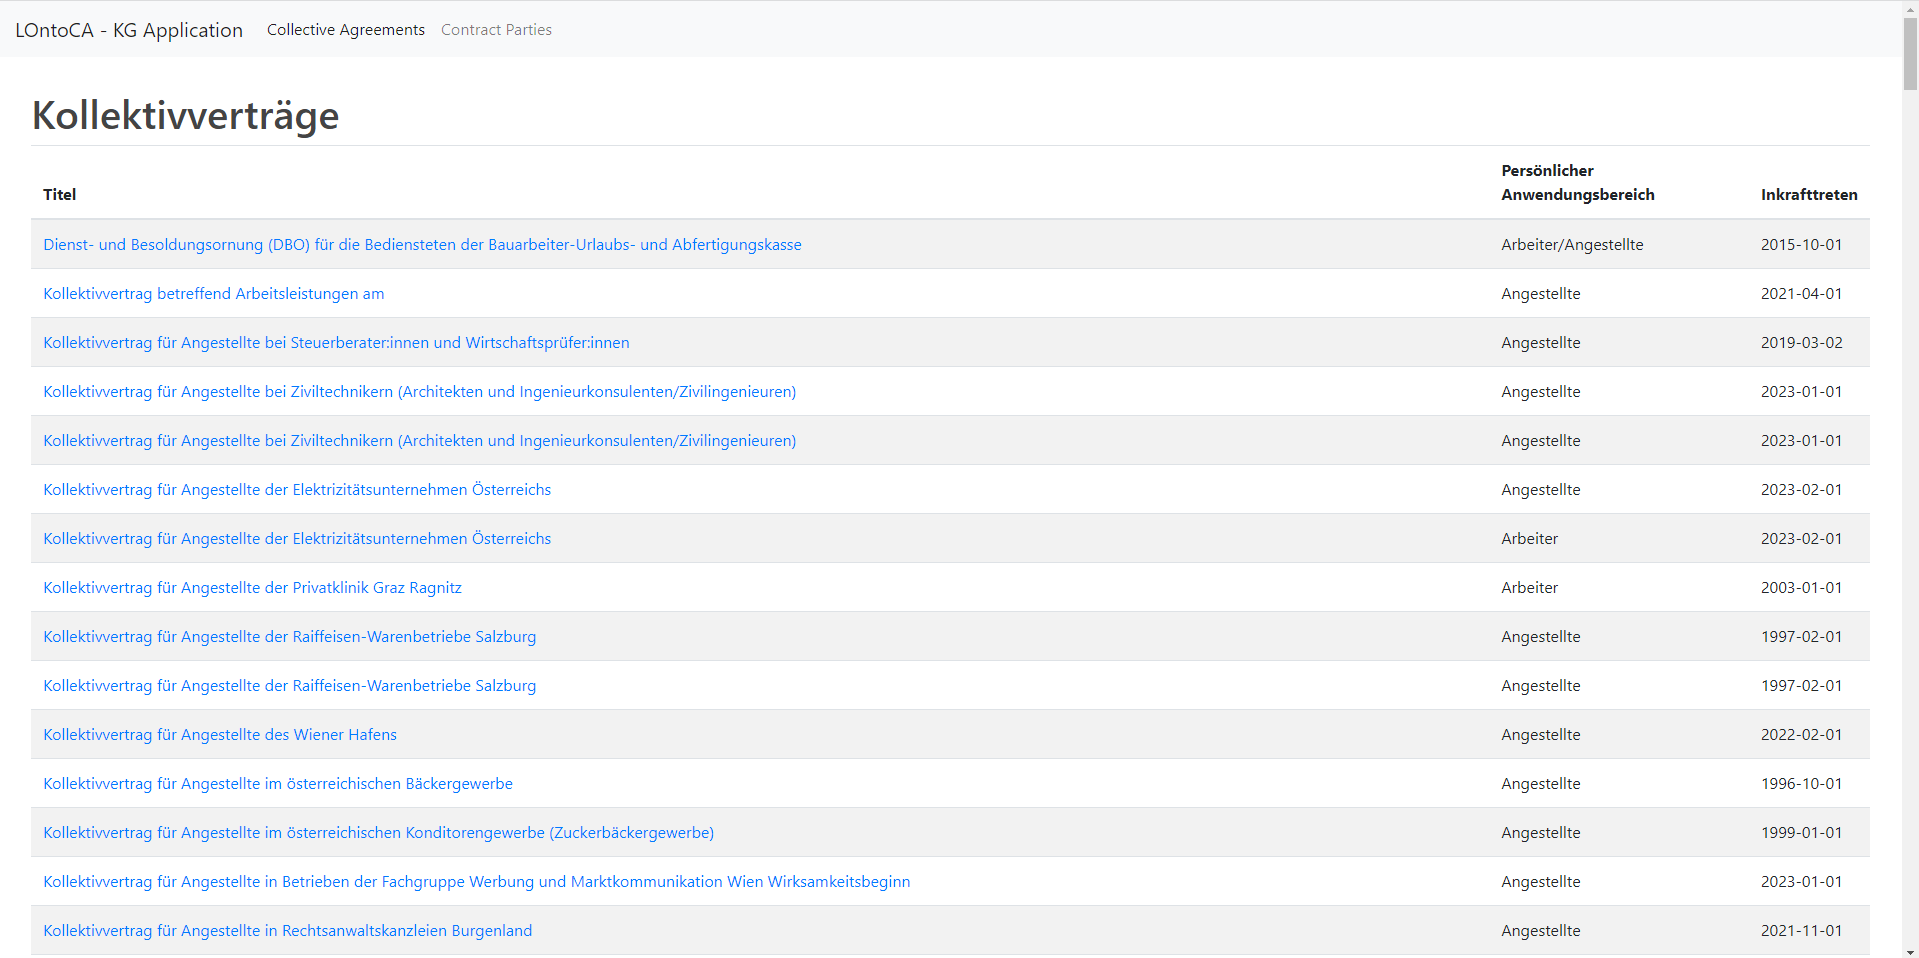
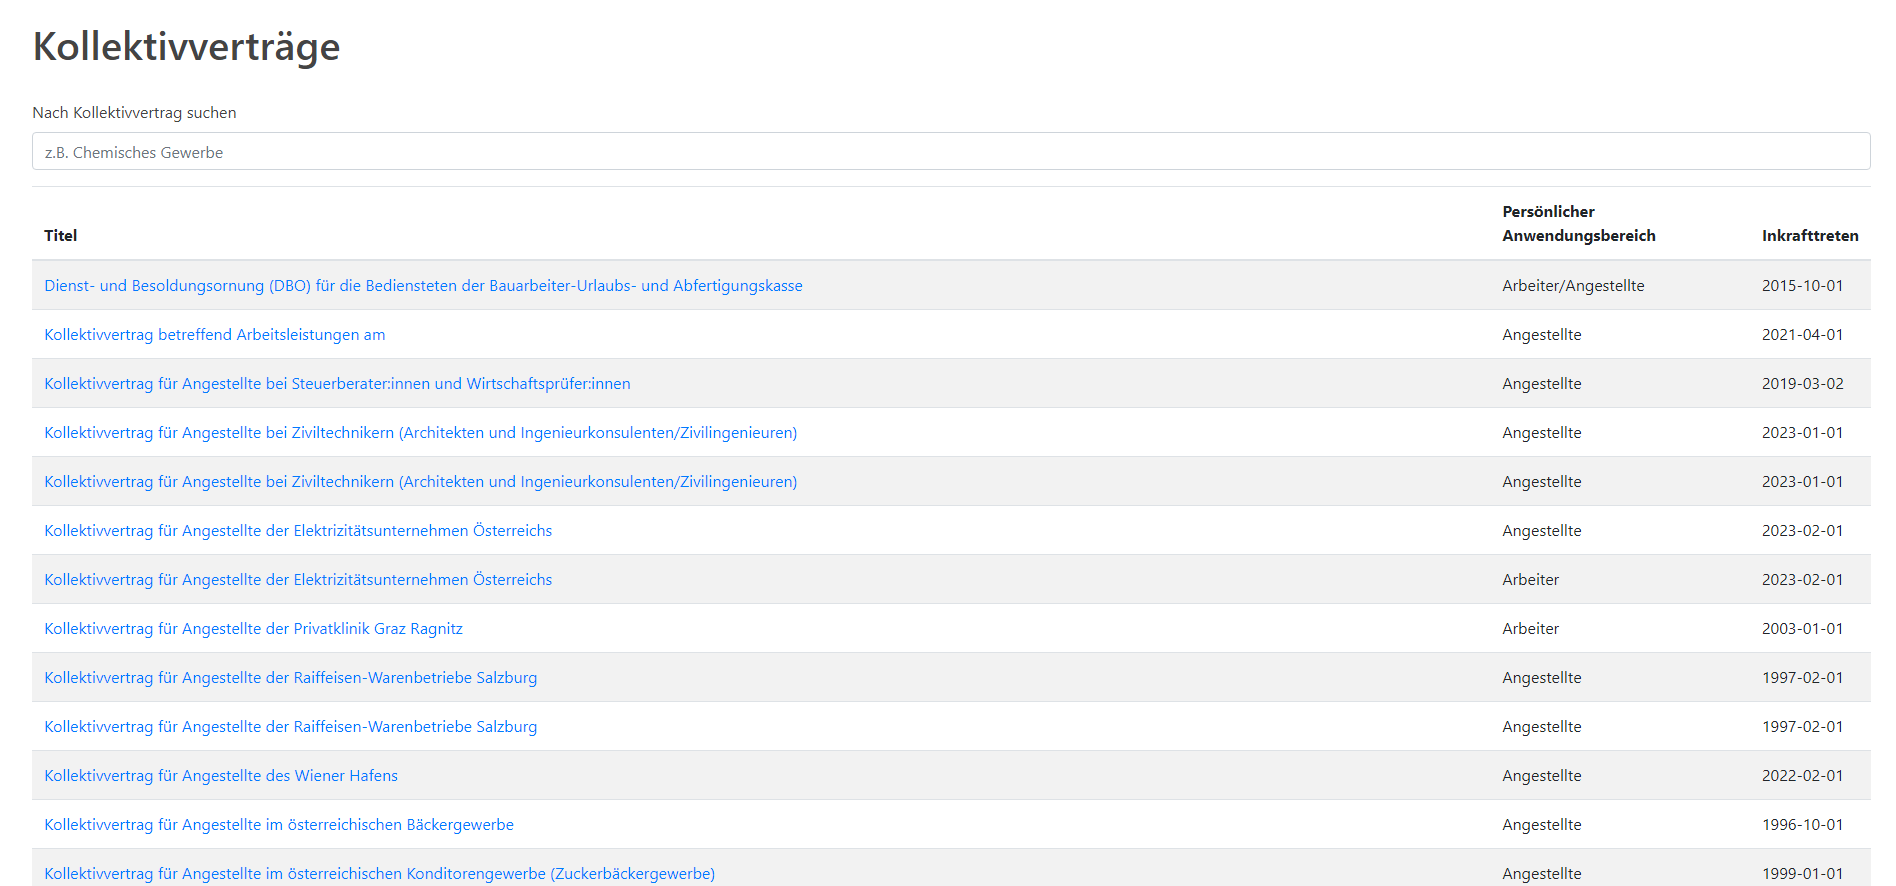
search functionality added

diff --git a/application/app/templates/parties.html b/application/app/templates/parties.html
@@ -5,6 +5,15 @@
 
     <h1>Kollektivvertragsparteien</h1>
 
+    <br>
+
+    <form id="form">
+        <div class="form-group">
+            <label for="searchString">Nach Kollektivvertragsparteien suchen</label>
+            <input type="text" class="form-control" id="searchString" name="searchString" placeholder="z.B. Gemeinde Wien">
+        </div>
+    </form>
+
     <table id="data" class="table table-striped">
         <thead>
         <tr>
@@ -12,7 +21,7 @@
             <th>Vertragsseite</th>
         </tr>
         </thead>
-        <tbody>
+        <tbody id="tbody">
         {% for party in parties %}
         <tr>
             <td><a href="/parties/{{party['p_iri']}}">{{ party['p_name'] }}</a></td>
@@ -23,5 +32,33 @@
     </table>
 
 </div>
+
+<script>
+/* event listener */
+input_element = document.getElementById("searchString")
+form_element = document.getElementById("form")
+input_element.addEventListener('input', function(event) {
+       event.preventDefault();
+       const formData = new FormData(form_element);
+       fetch('/', {
+            method: 'POST',
+            body: formData
+       }).then(function(response) {
+            response.json().then(function(value) {
+                replaceTBody(value);
+            });
+       });
+});
+
+tbody = document.getElementById("tbody")
+function replaceTBody(value) {
+    console.log(value);
+    new_table_content = '';
+    for (const [key, v] of Object.entries(value)) {
+        new_table_content += '<tr><td><a href="/contracts/' + v['c'] + '">' + v['n'] + '</a></td><td>' + v['d'] + '</td></tr>'
+    }
+    tbody.innerHTML = new_table_content
+}
+</script>
 
 {% endblock %}

diff --git a/application/app/templates/contracts.html b/application/app/templates/contracts.html
@@ -5,6 +5,15 @@
 
     <h1>Kollektivverträge</h1>
 
+    <br>
+
+    <form id="form">
+        <div class="form-group">
+            <label for="searchString">Nach Kollektivvertrag suchen</label>
+            <input type="text" class="form-control" id="searchString" name="searchString" placeholder="z.B. Chemisches Gewerbe">
+        </div>
+    </form>
+
     <table id="data" class="table table-striped">
         <thead>
         <tr>
@@ -13,7 +22,7 @@
             <th>Inkrafttreten</th>
         </tr>
         </thead>
-        <tbody>
+        <tbody id="tbody">
         {% for contract in contracts %}
         <tr>
             <td><a href="/contracts/{{contract['c']}}">{{ contract['n'] }}</a></td>
@@ -26,4 +35,32 @@
 
 </div>
 
+<script>
+/* event listener */
+input_element = document.getElementById("searchString")
+form_element = document.getElementById("form")
+input_element.addEventListener('input', function(event) {
+       event.preventDefault();
+       const formData = new FormData(form_element);
+       fetch('/', {
+            method: 'POST',
+            body: formData
+       }).then(function(response) {
+            response.json().then(function(value) {
+                replaceTBody(value);
+            });
+       });
+});
+
+tbody = document.getElementById("tbody")
+function replaceTBody(value) {
+    new_table_content = '';
+    for (const [key, v] of Object.entries(value)) {
+        new_table_content += '<tr><td><a href="/contracts/' + v['c'] + '">' + v['n'] + '</a></td><td>' + v['scope'] + '</td><td>' + v['d'] + '</td></tr>'
+    }
+    tbody.innerHTML = new_table_content
+}
+</script>
+
 {% endblock %}
+

diff --git a/application/app/static/queries/queries.py b/application/app/static/queries/queries.py
@@ -1,17 +1,27 @@
-def GET_CONTRACTS_WITH_TITLE():
-    return'''
+def GET_CONTRACTS_WITH_TITLE(substring: str):
+    return f'''
     PREFIX : <https://semantics.id/ns/>
     PREFIX re: <https://semantics.id/ns/resource/>
     
-    SELECT DISTINCT ?c ?n (GROUP_CONCAT(?t) AS ?scope) ?d 
-    WHERE {
-        ?c a :CollectiveAgreement . 
-        ?c :title ?n . 
-        ?c :personalScopeOfApplication ?t . 
-        ?c :dateOfComingIntoEffect ?d
-    } 
-    GROUP BY ?c ?n ?d 
-    ORDER BY ?n
+    SELECT * WHERE {{
+      {{   SELECT DISTINCT ?c ?n (GROUP_CONCAT(?t) AS ?scope) ?d 
+    WHERE {{
+      ?c a :CollectiveAgreement . 
+      ?c :title ?n . 
+      ?c :personalScopeOfApplication ?t . 
+      ?c :dateOfComingIntoEffect ?d
+      FILTER REGEX(lcase(str(?c)), "{substring}")
+    }} GROUP BY ?c ?n ?d ORDER BY ?n }}
+      UNION
+      {{   SELECT DISTINCT ?c ?n (GROUP_CONCAT(?t) AS ?scope) ?d 
+    WHERE {{
+      ?c a :CollectiveAgreement . 
+      ?c :title ?n . 
+      ?c :personalScopeOfApplication ?t . 
+      ?c :dateOfComingIntoEffect ?d
+      FILTER REGEX(lcase(str(?n)), "{substring}")
+    }} GROUP BY ?c ?n ?d ORDER BY ?n }}
+    }} GROUP BY ?c ?n ?d ?scope ORDER BY ?n
     '''
 
 
@@ -148,18 +158,31 @@ def FIND_CLAUSE(substring: str):
     }}
     '''
 
-def GET_CONTRACT_PARTIES():
+def GET_CONTRACT_PARTIES(substring: str):
     return f'''
+    
     PREFIX : <https://semantics.id/ns/> 
     PREFIX re: <https://semantics.id/ns/resource/>
-        
-    SELECT ?p_iri ?p_name ?side WHERE {{
-        ?p_iri a :ContractParty .
-      ?p_iri :partyName ?p_name .
-      BIND (if ( EXISTS {{ ?c1 a :CollectiveAgreement . ?c1 :hasContractPartyRepresentingEmployees ?p_iri }}, 
-          if ( EXISTS {{ ?c2 a :CollectiveAgreement . ?c2 :hasContractPartyRepresentingEmployers ?p_iri }}, 'Arbeitnehmer / Arbeitgeber' , 'Arbeitnehmer' ), 
-          if ( EXISTS {{ ?c3 a :CollectiveAgreement . ?c3 :hasContractPartyRepresentingEmployers ?p_iri }}, 'Arbeitgeber' , 'Unbekannt' )) AS ?side)
-      }}
+    
+    SELECT * WHERE {{
+    {{ SELECT ?p_iri ?p_name ?side WHERE {{
+    ?p_iri a :ContractParty .
+    ?p_iri :partyName ?p_name .
+    BIND (if ( EXISTS {{ ?c1 a :CollectiveAgreement . ?c1 :hasContractPartyRepresentingEmployees ?p_iri }},
+    if ( EXISTS {{ ?c2 a :CollectiveAgreement . ?c2 :hasContractPartyRepresentingEmployers ?p_iri }}, 'Arbeitnehmer / Arbeitgeber' , 'Arbeitnehmer' ),
+    if ( EXISTS {{ ?c3 a :CollectiveAgreement . ?c3 :hasContractPartyRepresentingEmployers ?p_iri }}, 'Arbeitgeber' , 'Unbekannt' )) AS ?side) .
+    FILTER REGEX(lcase(str(?p_name)), "{substring}")
+    }} }}
+    UNION
+    {{ SELECT ?p_iri ?p_name ?side WHERE {{
+    ?p_iri a :ContractParty .
+    ?p_iri :partyName ?p_name .
+    BIND (if ( EXISTS {{ ?c1 a :CollectiveAgreement . ?c1 :hasContractPartyRepresentingEmployees ?p_iri }},
+    if ( EXISTS {{ ?c2 a :CollectiveAgreement . ?c2 :hasContractPartyRepresentingEmployers ?p_iri }}, 'Arbeitnehmer / Arbeitgeber' , 'Arbeitnehmer' ),
+    if ( EXISTS {{ ?c3 a :CollectiveAgreement . ?c3 :hasContractPartyRepresentingEmployers ?p_iri }}, 'Arbeitgeber' , 'Unbekannt' )) AS ?side) .
+    FILTER REGEX(lcase(str(?p_iri)), "{substring}")
+    }} }}
+    }}
     '''
 
 def GET_SIGNED_CONTRACTS(substring: str):

diff --git a/application/app/routes.py b/application/app/routes.py
@@ -1,11 +1,21 @@
-from flask import render_template
+from flask import render_template, request
 from application.app import app
 from application.app.service.service import AppService
+import json
 
 
-@app.route('/')
-@app.route('/contracts')
+@app.route('/', methods=['GET', 'POST'])
+@app.route('/contracts', methods=['GET', 'POST'])
 def contracts():
+    if request.method == 'POST':
+        search_string = request.form['searchString']
+        search_results = AppService.get_contracts(search_string)
+
+        return app.response_class(
+            response=json.dumps(search_results),
+            status=200,
+            mimetype='application/json'
+        )
     return render_template('contracts.html', title='Contracts', contracts=AppService.get_contracts())
 
 
@@ -14,8 +24,17 @@ def single_contract(contract):
     return render_template('contract-detail.html', title='Detailansicht', contract_info=AppService.get_contract_info(contract=contract), zip=zip)
 
 
-@app.route('/parties')
+@app.route('/parties', methods=['GET', 'POST'])
 def parties():
+    if request.method == 'POST':
+        search_string = request.form['searchString']
+        search_results = AppService.get_parties(search_string)
+
+        return app.response_class(
+            response=json.dumps(search_results),
+            status=200,
+            mimetype='application/json'
+        )
     return render_template('parties.html', title='Parties', parties=AppService.get_parties())
 
 

diff --git a/application/app/service/service.py b/application/app/service/service.py
@@ -63,9 +63,9 @@ class RequestService:
 class AppService:
 
     @staticmethod
-    def get_contracts():
+    def get_contracts(substring: str = ''):
         return ResponseService.get_row_attributes(
-            result_rows=RequestService.get_query_results(query=queries.GET_CONTRACTS_WITH_TITLE(),
+            result_rows=RequestService.get_query_results(query=queries.GET_CONTRACTS_WITH_TITLE(substring=substring.lower()),
                                                          query_type=QUERY_TYPE.SELECT),
             attr_trans={
                 'c':        TRANSFORMATIONS.REMOVE_NS,
@@ -145,9 +145,9 @@ class AppService:
         return [single_contract, anniversary_bonus_pay_clauses, bonus_pay_clauses, normal_working_hours_clauses, all_clauses]
 
     @staticmethod
-    def get_parties():
+    def get_parties(substring: str = ''):
         return ResponseService.get_row_attributes(
-            result_rows=RequestService.get_query_results(query=queries.GET_CONTRACT_PARTIES(),
+            result_rows=RequestService.get_query_results(query=queries.GET_CONTRACT_PARTIES(substring=substring.lower()),
                                                          query_type=QUERY_TYPE.SELECT),
             attr_trans={
                 'p_iri': TRANSFORMATIONS.REMOVE_NS,

diff --git a/README.md b/README.md
@@ -24,10 +24,10 @@ expression is used, which ultimately obscures the meaning.
 This form of lawmaking practice is problematic. For example, the 
 collective agreement [Collective Agreement for Guarding Bodies 
 in the Guarding Industry](https://www.wko.at/service/kollektivvertrag/kollektivvertrag-wachorgane-bewachungsgewerbe-2021.html#heading_8) 
-§ 8 (2) Z 2 states "<em>Working hours 
+§ 8 (2) Z 2 states "*Working hours 
 that exceed the limits of the maximum permissible daily working 
 time or weekly working time (60 hours) shall be remunerated as 
-overtime with an overtime surcharge of 50% [translated]</em>". This 
+overtime with an overtime surcharge of 50% [translated]*". This 
 clause must be a mistake in the legislation, as it would mean that 
 employees can only work overtime if they work an illegal number of hours.   
 
@@ -120,12 +120,35 @@ This page lists all collective agreements that are in the knowledge graph (curre
 
 ![plot](./demo-screenshots/contracts-overview-page.png)
 
+A user can search for collective agreements by entering a search string in the input field on the top.
+
+![plot](./demo-screenshots/contracts-overview-search.png)
+
 ### Contract Details
 
 This page displays automatically extracted information for one contract.
+On top the title, date of coming into effect and the contract parties are listed.
+Then, if a contract demands anniversary bonus pay ("*Jubiläumsgeld*"), the respective 
+clauses are displayed. The same applies to bonus pay ("*13. und 14. Monatsgehalt*") 
+clauses and clauses that determine the legal regular working hours ("*Normalarbeitszeit*") 
+and the period over which the working hours are averaged ("*Durchrechnungszeitraum*").
 
 ![plot](./demo-screenshots/contract-detail-page-1.png)
+
+For clauses concerning working hours, the application extract values which
+are displayed in a table next to the respective clause. Since the application cannot
+yet understand the complex rules of multiple clauses, a user has to read these clauses to
+fully understand which value has to be applied when. Furthermore, on the bottom, there
+is a full list of clauses of this contract. For this application, a clause is not the same
+as a paragraph. The application splits the contract in the smallest semantically complete
+bits possible (this is done when parsing the documents).
+
 ![plot](./demo-screenshots/contract-detail-page-2.png)
+
+The screenshot below shows how it looks like when a contract does not demand
+anniversary bonus pay. A user can instantly see that and does not have to
+go through the whole contract.
+
 ![plot](./demo-screenshots/contract-detail-page-3.png)
 
 ### Contract Parties Overview
@@ -133,6 +156,10 @@ This page displays automatically extracted information for one contract.
 This page lists all entities that have signed at least one collective agreement.
 
 ![plot](./demo-screenshots/parties-overview-page.png)
+
+A user can search for contract parties by entering a search string in the input field on the top.
+
+![plot](./demo-screenshots/parties-overview-search.png)
 
 ### Contract Party 
 
@@ -144,9 +171,8 @@ This page displays which collective agreements were signed by one contract party
 
 ## Further Development
 
-Since this is just a proof-of-concept, the final application is <em>very</em> basic and does not
-offer essential functionalities such as a search function. Furthermore, the knowledge graph could
-be extended by adding more attributes to the extraction process.
+Since this is just a proof-of-concept, the final application is *very* basic. 
+The knowledge graph could be extended by adding more attributes to the extraction process.
 
 The final goal would be to extend the ontology to also represent legal rules themselves and 
 extract these data from the clauses which would then allow for automatic decision-making.
@@ -170,12 +196,14 @@ are not extracted correctly.
 
 4. Current application is prone to SPARQL-injections.
 
+5. Code is barely documented.
+
 #### Usability Issues
 
 1. Some contracts have the same title which makes it impossible for a user to distinguish between
    them.
 
-2. The current design is <em>extremely</em> basic and not practical.
+2. The current design is *extremely* basic and not practical.
 
 ### Disclaimer
 
